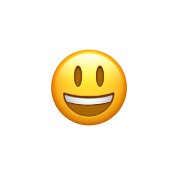
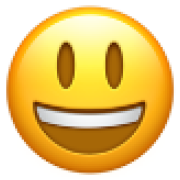
upDATE

diff --git a/blog-single.html b/blog-single.html
@@ -10,7 +10,7 @@
   <meta content="" name="keywords">
 
   <!-- Favicons -->
-  <link href="./assets/img/favicon.png" rel="icon">
+  <link href="./assets/img/smile.png" rel="icon">
   <link href="./assets/img/apple-touch-icon.png" rel="apple-touch-icon">
 
   <!-- Vendor CSS Files -->

diff --git a/portfolio-details.html b/portfolio-details.html
@@ -10,7 +10,7 @@
   <meta content="" name="keywords">
 
   <!-- Favicons -->
-  <link href="./assets/img/favicon.png" rel="icon">
+  <link href="./assets/img/smile.png" rel="icon">
   <link href="./assets/img/apple-touch-icon.png" rel="apple-touch-icon">
 
   <!-- Vendor CSS Files -->
